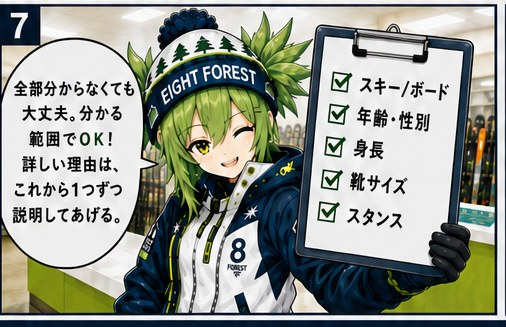
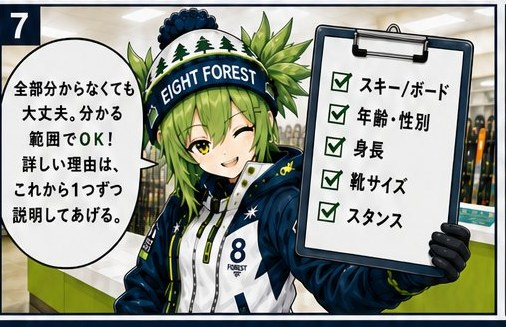
初心者ガイド：第2・4・5話の画像を新版に差し替え（PC1枚絵＋スマホ8コマ）
完成版フォルダの manga-2-v3 / manga-4-v2 / manga-5-v2（各1024x1536）をJPEG化して
manga-2/4/5.jpg を更新。MD5で同一性を確認済み。
スマホ用の8コマは _grid.json の既存座標で再分割（コマ差し替え版なので枠位置は不変）。
座標の解釈は既存の第3・6話の実物コマと寸法が完全一致することで検証し、
新しい24コマはコンタクトシートで目視確認した。
同名上書きのため参照は panels ?v=2→3 / PC画像 ?v=3→4 に更新。

simple版は ?v が付いておらず古い画像が残るため ?v=4 を追加。
あわせて第2話の説明文が新しい絵の見出しと食い違っていたので本体側に統一。

diff --git a/simple/pages/beginner-guide.html b/simple/pages/beginner-guide.html
@@ -114,7 +114,7 @@
   // 話が増えたらここに1行足すだけ（img は assets/img/ 内のファイル名）
   var EPISODES = [
     { no:"第1話",  ttl:"予約でスムーズ",     cap:"第1話：予約しておくと当日スムーズ！",              img:"manga-1.jpg" },
-    { no:"第2話",  ttl:"入力してほしいこと", cap:"第2話：予約で入力してほしいこと",                 img:"manga-2.jpg" },
+    { no:"第2話",  ttl:"伝えてほしいこと", cap:"第2話：予約で伝えてほしいこと、まとめたよ！",                 img:"manga-2.jpg" },
     { no:"第3話",  ttl:"スキー？スノボ？",   cap:"第3話：スキー？スノーボード？迷ったらチェック！",  img:"manga-3.jpg" },
     { no:"第4話",  ttl:"身長・靴のサイズ",   cap:"第4話：身長・靴のサイズは何に使うの？",           img:"manga-4.jpg" },
     { no:"第5話",  ttl:"年齢・性別",         cap:"第5話：年齢・性別は何に使うの？",                 img:"manga-5.jpg" },
@@ -176,7 +176,7 @@
     // 高さ0を基準にしてしまい、大きくズレるため。その場合は位置調整をスキップ）
     var oldH = (d.img.complete && d.img.naturalWidth) ? d.img.getBoundingClientRect().height : null;
     d.img.onload = function(){ d.img.onload = null; if (oldH !== null) reflowAfter(d.img, oldH); };
-    d.img.src = "../../assets/img/" + ep.img;
+    d.img.src = "../../assets/img/" + ep.img + "?v=4";
     d.img.alt = "やつもりんの予約案内マンガ " + ep.no + " " + ep.ttl;
     d.sel.value = i;
     // 前へ／次へ

diff --git a/pages/beginner-guide.html b/pages/beginner-guide.html
@@ -182,7 +182,7 @@
     if (!MQ_MOBILE.matches) { host.innerHTML = ""; return; }
     var ep = i + 1, html = "";
     for (var p = 1; p <= 8; p++){
-      html += '<img class="manga-panel" src="../assets/img/manga/ep' + ep + 'p' + p + '.jpg?v=2"'
+      html += '<img class="manga-panel" src="../assets/img/manga/ep' + ep + 'p' + p + '.jpg?v=3"'
             + ' alt="第' + ep + '話 コマ' + p + '" loading="lazy" decoding="async">';
     }
     host.innerHTML = html;
@@ -203,7 +203,7 @@
     // 高さ0を基準にしてしまい、大きくズレるため。その場合は位置調整をスキップ）
     var oldH = (d.img.complete && d.img.naturalWidth) ? d.img.getBoundingClientRect().height : null;
     d.img.onload = function(){ d.img.onload = null; if (oldH !== null) reflowAfter(d.img, oldH); };
-    d.img.src = "../assets/img/" + ep.img + "?v=3";
+    d.img.src = "../assets/img/" + ep.img + "?v=4";
     renderPanels(i);
     d.img.alt = "やつもりんの予約案内マンガ " + ep.no + " " + ep.ttl;
     d.sel.value = i;
